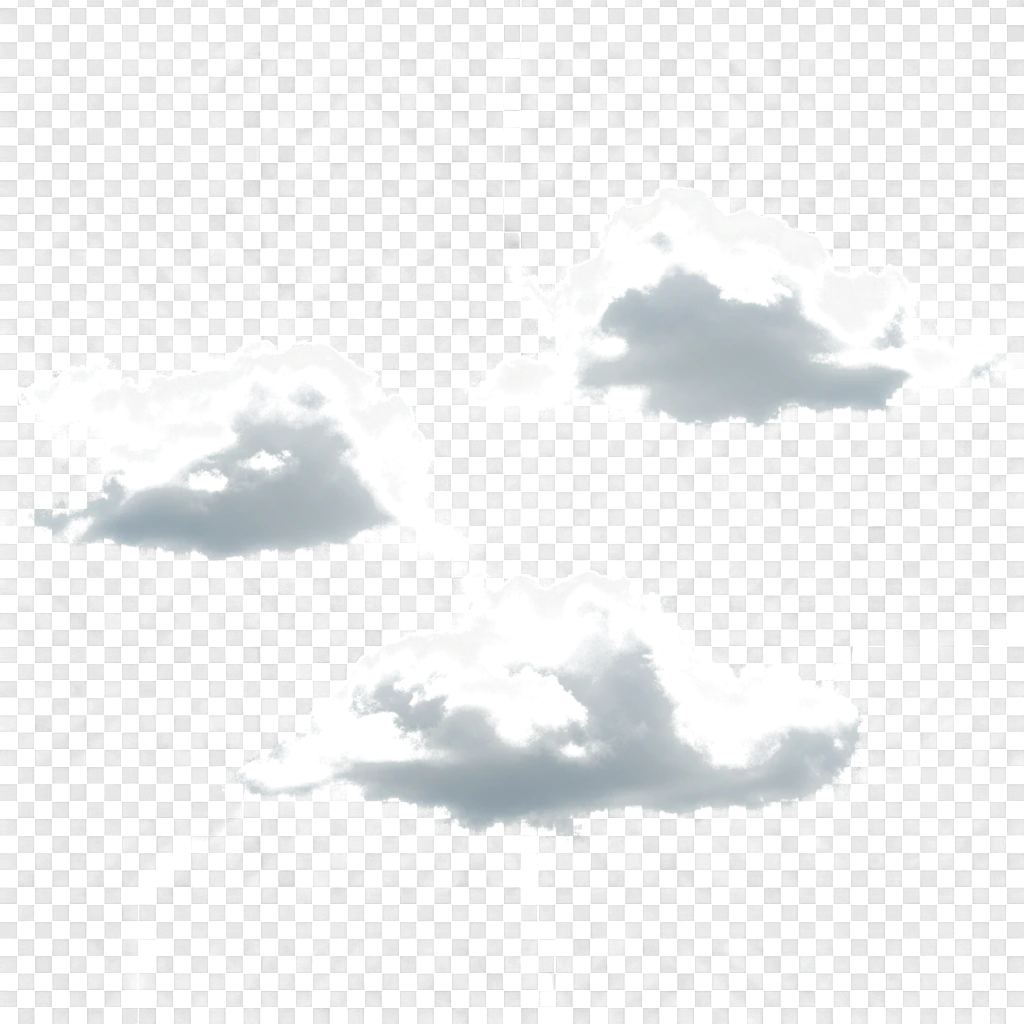
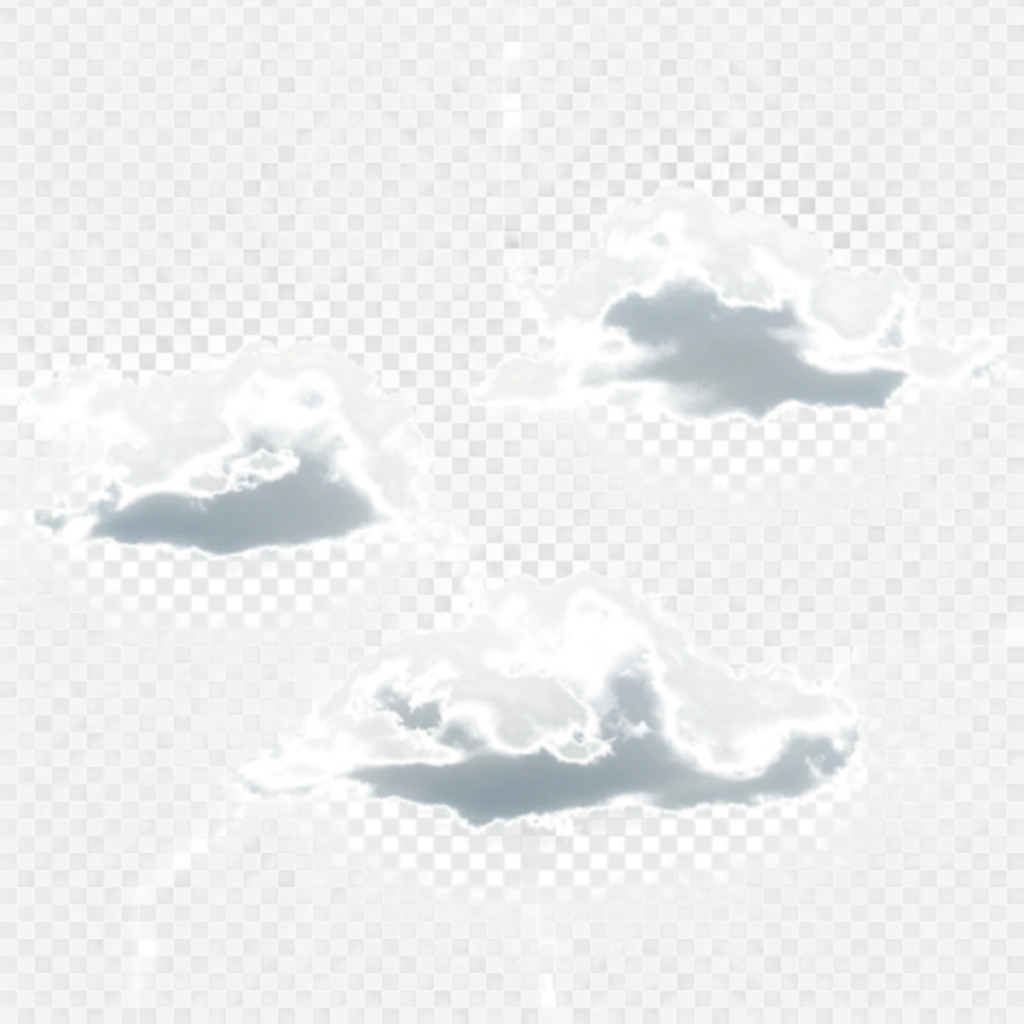
preview: high-pass cloud cutout (no box) + larger rain/snow tiles

diff --git a/dayarc_preview.js b/dayarc_preview.js
@@ -117,7 +117,7 @@
       +'<filter id="da_soft" x="-90%" y="-90%" width="280%" height="280%"><feGaussianBlur stdDeviation="6"/></filter>'
       +'<filter id="da_soft2" x="-60%" y="-60%" width="220%" height="220%"><feGaussianBlur stdDeviation="3"/></filter>'
       +'<filter id="da_cblur" x="-50%" y="-50%" width="200%" height="200%"><feGaussianBlur stdDeviation="2.2"/></filter>'
-      +'<radialGradient id="da_bloom"><stop offset="0" stop-color="#FFF6D8" stop-opacity=".6"/><stop offset=".4" stop-color="#FFD98A" stop-opacity=".22"/><stop offset="1" stop-color="#FFD98A" stop-opacity="0"/></radialGradient>'+'<filter id="da_cloudf" x="-20%" y="-8%" width="140%" height="116%"><feTurbulence type="fractalNoise" baseFrequency="0.009 0.02" numOctaves="5" seed="4" stitchTiles="stitch" result="n"/><feColorMatrix in="n" type="matrix" values="0 0 0 0 1  0 0 0 0 1  0 0 0 0 1  0 0 0 2.4 -1.15"/></filter>'+'<filter id="da_rockf"><feTurbulence type="fractalNoise" baseFrequency="0.05 0.10" numOctaves="4" seed="11" stitchTiles="stitch" result="n"/><feColorMatrix in="n" type="matrix" values="0 0 0 0 0  0 0 0 0 0  0 0 0 0 0  0 0 0 1.1 -0.42"/></filter>'+'<filter id="da_snowf"><feTurbulence type="fractalNoise" baseFrequency="0.07 0.12" numOctaves="3" seed="5" stitchTiles="stitch" result="n"/><feColorMatrix in="n" type="matrix" values="0 0 0 0 1  0 0 0 0 1  0 0 0 0 1  0 0 0 0.8 -0.35"/></filter>'+'<pattern id="da_starpat" patternUnits="userSpaceOnUse" width="213" height="128"><image href="images/hdr_stars.webp" x="0" y="0" width="213" height="128"/></pattern>'+'<pattern id="da_rainpat" patternUnits="userSpaceOnUse" width="150" height="150"><image href="images/hdr_rain.webp" x="0" y="0" width="150" height="150"/><animateTransform attributeName="patternTransform" type="translate" from="0 0" to="7 150" dur="0.55s" repeatCount="indefinite"/></pattern>'+'<pattern id="da_snowpat" patternUnits="userSpaceOnUse" width="200" height="200"><image href="images/hdr_snow.webp" x="0" y="0" width="200" height="200"/><animateTransform attributeName="patternTransform" type="translate" from="0 0" to="11 200" dur="4.5s" repeatCount="indefinite"/></pattern>'+'<clipPath id="da_mclip"><circle cx="0" cy="0" r="7"/></clipPath>';
+      +'<radialGradient id="da_bloom"><stop offset="0" stop-color="#FFF6D8" stop-opacity=".6"/><stop offset=".4" stop-color="#FFD98A" stop-opacity=".22"/><stop offset="1" stop-color="#FFD98A" stop-opacity="0"/></radialGradient>'+'<filter id="da_cloudf" x="-20%" y="-8%" width="140%" height="116%"><feTurbulence type="fractalNoise" baseFrequency="0.009 0.02" numOctaves="5" seed="4" stitchTiles="stitch" result="n"/><feColorMatrix in="n" type="matrix" values="0 0 0 0 1  0 0 0 0 1  0 0 0 0 1  0 0 0 2.4 -1.15"/></filter>'+'<filter id="da_rockf"><feTurbulence type="fractalNoise" baseFrequency="0.05 0.10" numOctaves="4" seed="11" stitchTiles="stitch" result="n"/><feColorMatrix in="n" type="matrix" values="0 0 0 0 0  0 0 0 0 0  0 0 0 0 0  0 0 0 1.1 -0.42"/></filter>'+'<filter id="da_snowf"><feTurbulence type="fractalNoise" baseFrequency="0.07 0.12" numOctaves="3" seed="5" stitchTiles="stitch" result="n"/><feColorMatrix in="n" type="matrix" values="0 0 0 0 1  0 0 0 0 1  0 0 0 0 1  0 0 0 0.8 -0.35"/></filter>'+'<pattern id="da_starpat" patternUnits="userSpaceOnUse" width="213" height="128"><image href="images/hdr_stars.webp" x="0" y="0" width="213" height="128"/></pattern>'+'<pattern id="da_rainpat" patternUnits="userSpaceOnUse" width="300" height="300"><image href="images/hdr_rain.webp" x="0" y="0" width="300" height="300"/><animateTransform attributeName="patternTransform" type="translate" from="0 0" to="14 300" dur="0.55s" repeatCount="indefinite"/></pattern>'+'<pattern id="da_snowpat" patternUnits="userSpaceOnUse" width="320" height="320"><image href="images/hdr_snow.webp" x="0" y="0" width="320" height="320"/><animateTransform attributeName="patternTransform" type="translate" from="0 0" to="16 320" dur="4.5s" repeatCount="indefinite"/></pattern>'+'<clipPath id="da_mclip"><circle cx="0" cy="0" r="7"/></clipPath>';
 
     var sg=add("g",{id:"da_stars",opacity:"0"},svg); stars=[];
     add("rect",{x:-VW,y:0,width:3*VW,height:HOR,fill:"url(#da_starpat)"},sg);

diff --git a/_hdr.html b/_hdr.html
@@ -181,6 +181,6 @@
   if(window.__buildLegend) window.__buildLegend();
   </script>
 
-  <script src="dayarc_preview.js?cb=1782447317"></script>
+  <script src="dayarc_preview.js?cb=1782447457"></script>
 </body>
 </html>
